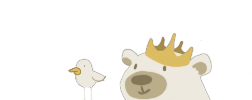
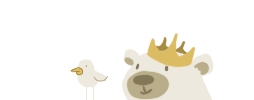
pet the bear!

diff --git a/tabs/art.html b/tabs/art.html
@@ -25,8 +25,9 @@
             <a href="../pdfs/Janna Gilleman Resume 2022.pdf" download="Janna Gilleman Resume" class="flex-item">
                 <p>Resumé</p></a>
         </div>
-        <div class=Bear>
-            <img src="../images/bear.png" alt="a little guy I drew">
+        <div class="Bear">
+            <img class="bear_default" src="../images/bear.png" alt="a little guy I drew"/>
+            <img class="bear_happy" src="../images/bear_happy.png" />
         </div>
     </div>
 

diff --git a/tabs/cad.html b/tabs/cad.html
@@ -27,8 +27,9 @@
             <a href="../pdfs/Janna Gilleman Resume 2022.pdf" download="Janna Gilleman Resume" class="flex-item">
                 <p>Resumé</p></a>
         </div>
-        <div class=Bear>
-            <img src="../images/bear.png" alt="a little guy I drew">
+        <div class="Bear">
+            <img class="bear_default" src="../images/bear.png" alt="a little guy I drew"/>
+            <img class="bear_happy" src="../images/bear_happy.png" />
         </div>
     </div>
 

diff --git a/tabs/friends.html b/tabs/friends.html
@@ -25,8 +25,9 @@
             <a href="../pdfs/Janna Gilleman Resume 2022.pdf" download="Janna Gilleman Resume" class="flex-item">
                 <p>Resumé</p></a>
         </div>
-        <div class=Bear>
-            <img src="../images/bear.png" alt="a little guy I drew">
+        <div class="Bear">
+            <img class="bear_default" src="../images/bear.png" alt="a little guy I drew"/>
+            <img class="bear_happy" src="../images/bear_happy.png" />
         </div>
     </div>
 

diff --git a/tabs/home.html b/tabs/home.html
@@ -27,8 +27,9 @@
             <a href="../pdfs/Janna Gilleman Resume 2022.pdf" download="Janna Gilleman Resume" class="flex-item">
                 <p>Resumé</p></a>
         </div>
-        <div class=Bear>
-            <img src="../images/bear.png" alt="a little guy I drew">
+        <div class="Bear">
+            <img class="bear_default" src="../images/bear.png" alt="a little guy I drew"/>
+            <img class="bear_happy" src="../images/bear_happy.png" />
         </div>
     </div>
 

diff --git a/tabs/projects.html b/tabs/projects.html
@@ -25,8 +25,9 @@
             <a href="../pdfs/Janna Gilleman Resume 2022.pdf" download="Janna Gilleman Resume" class="flex-item">
                 <p>Resumé</p></a>
         </div>
-        <div class=Bear>
-            <img src="../images/bear.png" alt="a little guy I drew">
+        <div class="Bear">
+            <img class="bear_default" src="../images/bear.png" alt="a little guy I drew"/>
+            <img class="bear_happy" src="../images/bear_happy.png" />
         </div>
     </div>
 

diff --git a/tabs/secret.html b/tabs/secret.html
@@ -25,8 +25,9 @@
             <a href="../pdfs/Janna Gilleman Resume 2022.pdf" download="Janna Gilleman Resume" class="flex-item">
                 <p>Resumé</p></a>
         </div>
-        <div class=Bear>
-            <img src="../images/bear.png" alt="a little guy I drew">
+        <div class="Bear">
+            <img class="bear_default" src="../images/bear.png" alt="a little guy I drew"/>
+            <img class="bear_happy" src="../images/bear_happy.png" />
         </div>
     </div>
 

diff --git a/styles.css b/styles.css
@@ -77,6 +77,23 @@
 }
 .Bear {
   margin: 5px 0 0 0;
+  position: relative;
+  top: 0;
+  left: 0;
+}
+.bear_default {
+  position: relative;
+  top: 0;
+  left: 0;
+}
+.bear_happy {
+  opacity: 0%;
+  position: absolute;
+  top: 0px;
+  left: 0px;
+}
+.bear_happy:hover {
+  opacity: 100%;
 }
 .flex-item {
   display: flex;
